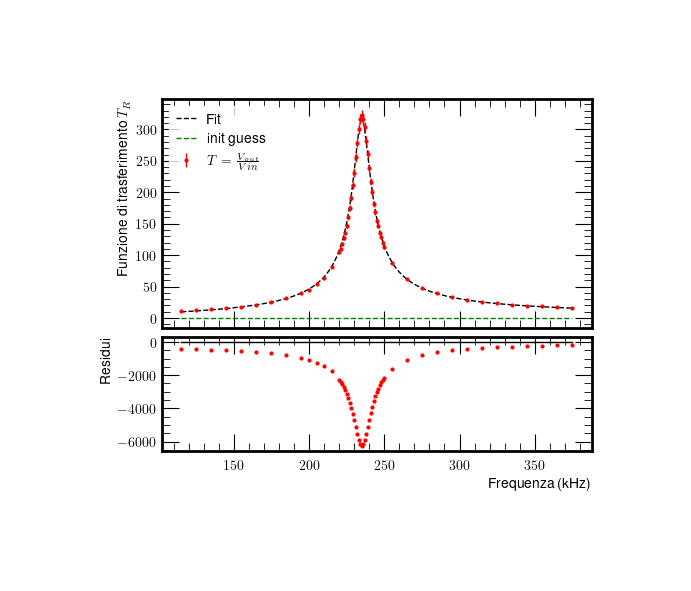
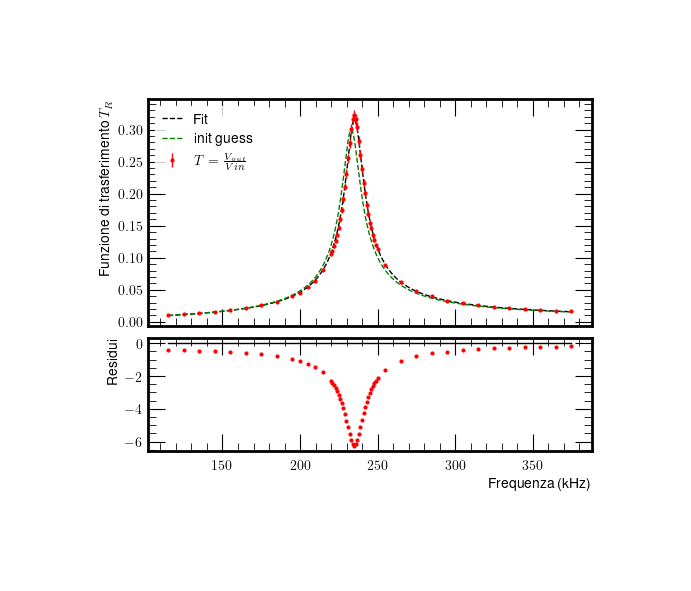
new modifiche

diff --git a/RLC freq/emilio/prof con i nostri dati/RLC_Rres.py b/RLC freq/emilio/prof con i nostri dati/RLC_Rres.py
@@ -112,9 +112,9 @@ frfit0 = 10.0
 frfit1 = 100.0
 
 # Initial parameter values
-Ainit= 0.95
-Binit =  2.0 * np.pi *18000.  # Hz
-Cinit = 10. # Hz
+Ainit= 0.3
+Binit =  2.0 * np.pi *233000.  # Hz
+Cinit = 20. # Hz
 
 # Assumed reading errors
 letturaV = 0.1*0.41
@@ -128,9 +128,9 @@ errscalaV = 0.03*0.41
 data = np.loadtxt(inputname)
 fr = data[:, 0] #frequenze
 Vin = data[:, 1] #Vin
-Vo = data[:, 3] #Vout
+Vo = data[:, 3]*10**-3 #Vout
 Vdiv_in = data[:, 2]*10**-3 #divisioni-FS del Vin
-VdivR = data[:, 4] #divisioni-FS del Vout
+VdivR = data[:, 4]*10**-3 #divisioni-FS del Vout
 
 # Number of points to fit
 # va a contare il numero di frequenze nel vettore fr che siano maggiori di zero
